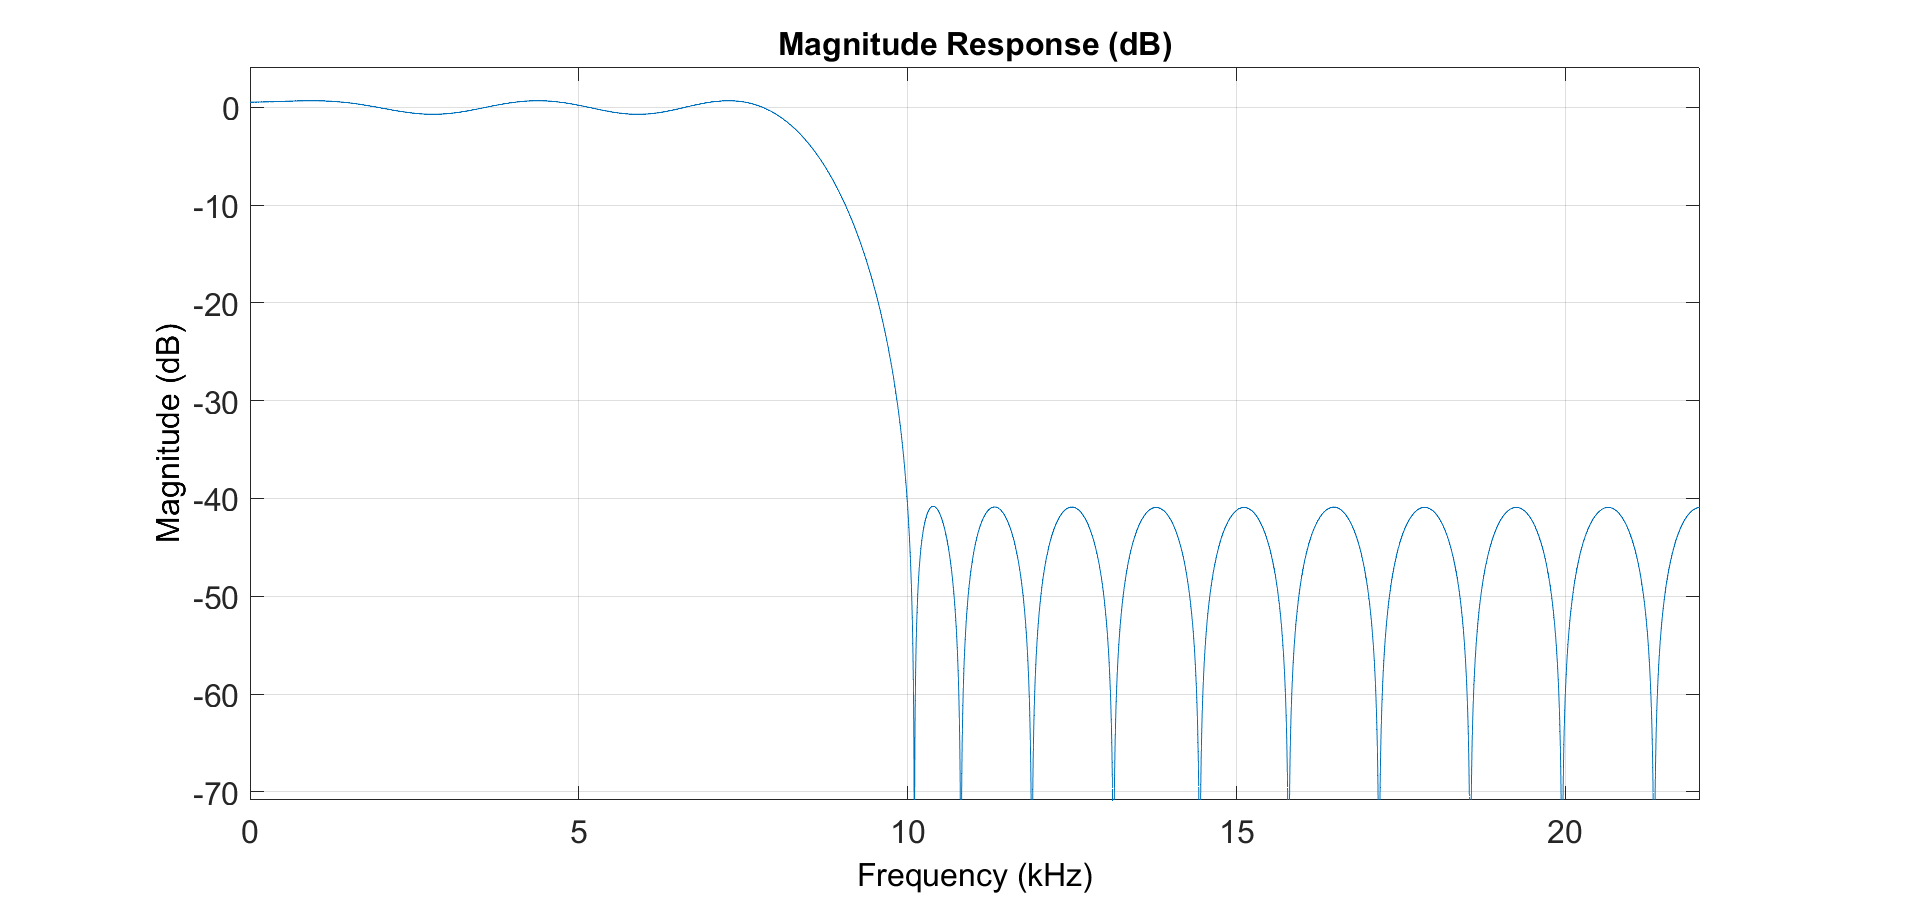
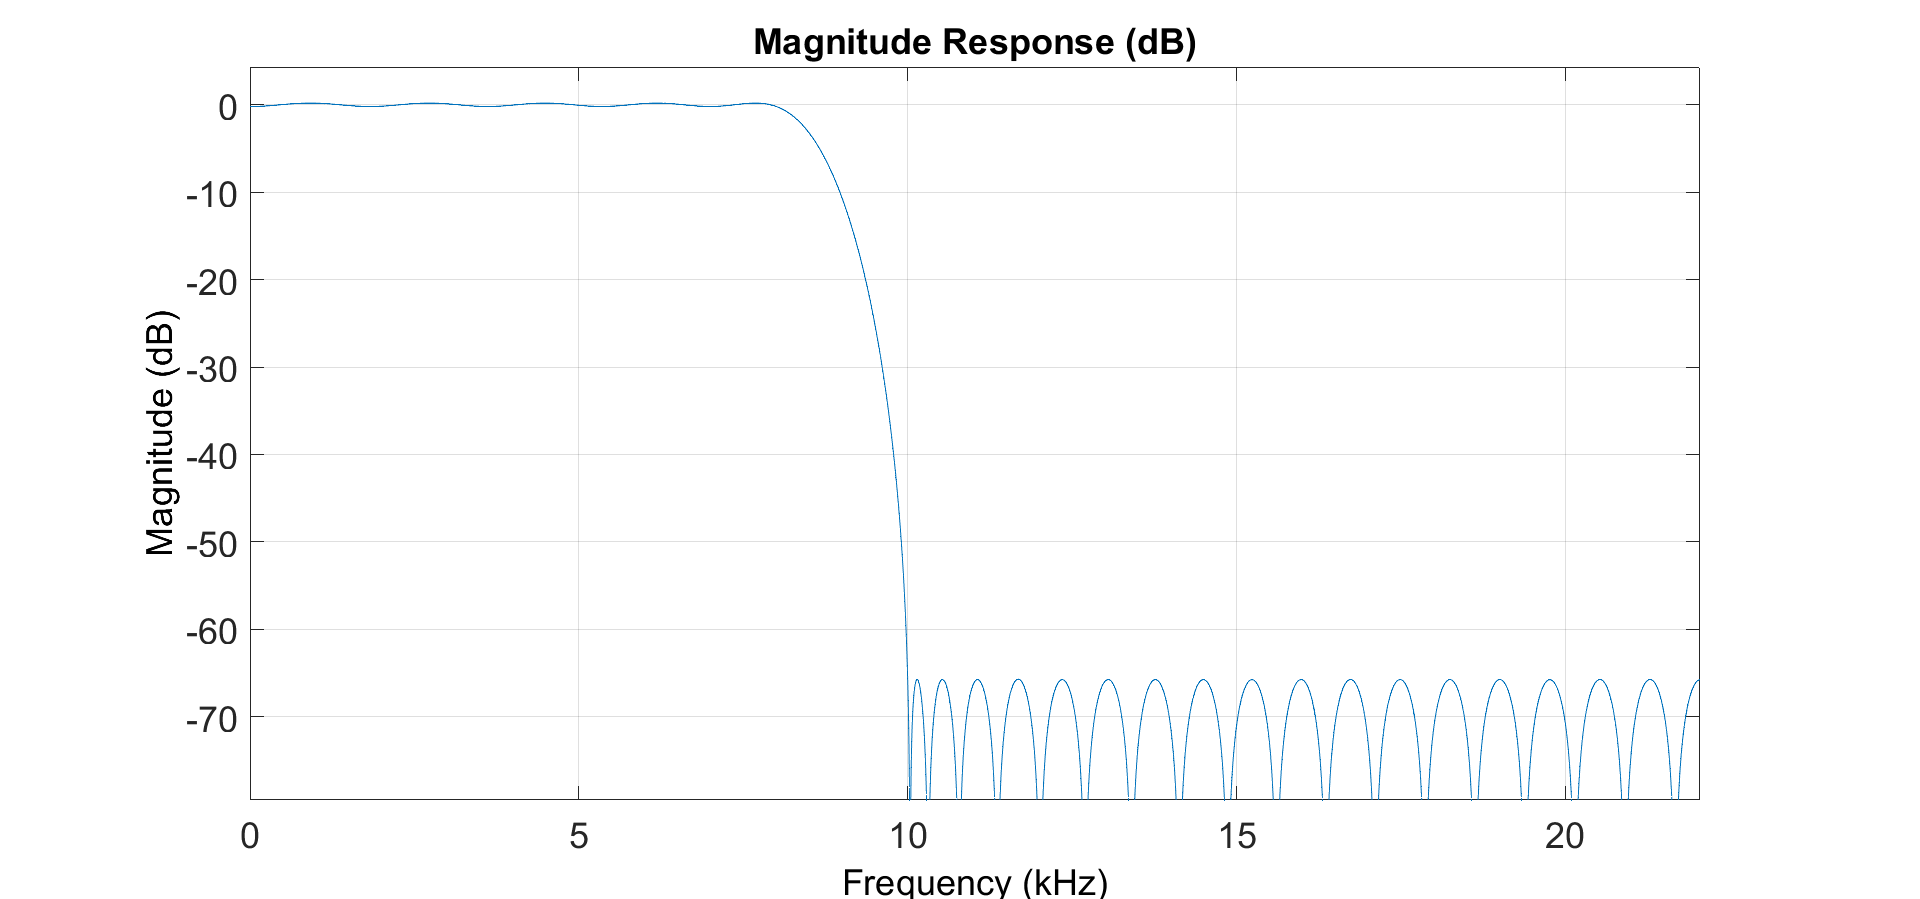
changes to fir filter

diff --git a/gitfigures/system_design/overdrive/overdrive_aa_filter_design.m b/gitfigures/system_design/overdrive/overdrive_aa_filter_design.m
@@ -1,36 +1,6 @@
 fs = 44100;  % Sampling rate
 folder_path = pwd;
 % FIR coefficients converted from Q15 to floating point
-b = [-0.014035107773065391, ...
-     -0.018630081589955532, ...
-     -0.0064570708316313225, ...
-      0.017545637454152153, ...
-      0.026327058500797237, ...
-      0.004799943536504513, ...
-     -0.022340536030916566, ...
-     -0.01423386907051739, ...
-      0.028541099105363423, ...
-      0.04944618491436379, ...
-      0.0027674927202366393, ...
-     -0.06907287574324009, ...
-     -0.05638298801256543, ...
-      0.09688937225374243, ...
-      0.30496985939557847, ...
-      0.4022891482457461, ...
-      0.30496985939557847, ...
-      0.09688937225374243, ...
-     -0.05638298801256543, ...
-     -0.06907287574324009, ...
-      0.0027674927202366393, ...
-      0.04944618491436379, ...
-      0.028541099105363423, ...
-     -0.01423386907051739, ...
-     -0.022340536030916566, ...
-      0.004799943536504513, ...
-      0.026327058500797237, ...
-      0.017545637454152153, ...
-     -0.0064570708316313225, ...
-     -0.018630081589955532, ...
-     -0.014035107773065391];
+b = [0.0009378499381862079 0.0009851563217279343 -0.001335022119489159 -0.005352027065935874 -0.006842277361396169 -0.0026053545706024653 0.0039403888196034515 0.004896035711415815 -0.0020106920274867916 -0.008133342847464963 -0.003635411703384118 0.007762043948384333 0.010466693106093227 -0.0022861968346553543 -0.015237255586699363 -0.00829047227083722 0.013648285780166684 0.020841479628351495 -0.0025201285994926733 -0.029440951808583162 -0.018524953293150667 0.026384439760317263 0.04620964698893607 -0.0026421514948045464 -0.07417968841139486 -0.05912723076515398 0.09498615637867983 0.3013156653659919 0.39732145959071546 0.3013156653659919 0.09498615637867983 -0.05912723076515398 -0.07417968841139486 -0.0026421514948045464 0.04620964698893607 0.026384439760317263 -0.018524953293150667 -0.029440951808583162 -0.0025201285994926733 0.020841479628351495 0.013648285780166684 -0.00829047227083722 -0.015237255586699363 -0.0022861968346553543 0.010466693106093227 0.007762043948384333 -0.003635411703384118 -0.008133342847464963 -0.0020106920274867916 0.004896035711415815 0.0039403888196034515 -0.0026053545706024653 -0.006842277361396169 -0.005352027065935874 -0.001335022119489159 0.0009851563217279343 0.0009378499381862079];
 % Visualize frequency response
 h = fvtool(b, 1, 'Fs', fs);
